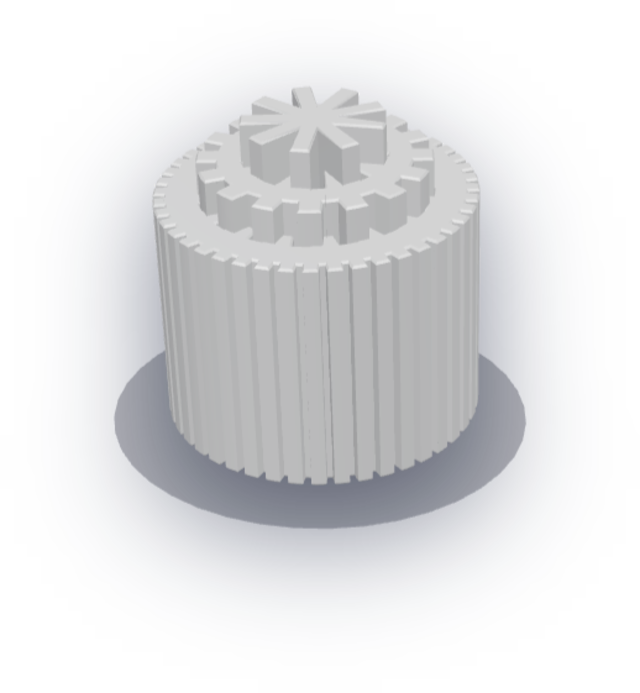
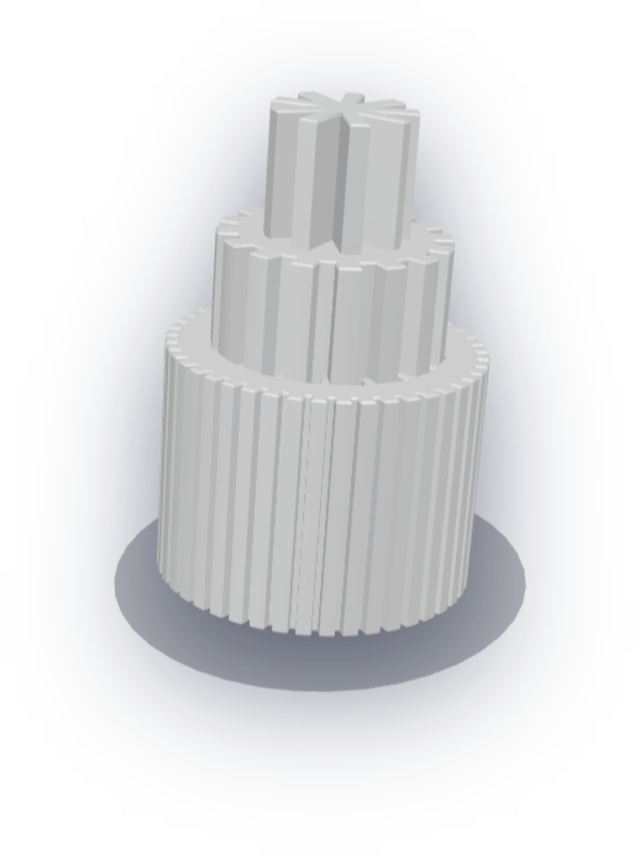
Sample application

Changed region(s): [[0.1875, 0.0909, 0.7812, 0.5152], [0.1562, 0.4848, 0.8438, 0.8182]]

diff --git a/src/styles/global.css b/src/styles/global.css
@@ -117,7 +117,7 @@ a:hover { color: var(--color-ink); }
               transform 100ms var(--ease-out);
 }
 .btn--fill {
-  background-color: var(--color-accent);
+  background-color: var(--color-accent-2);
   color: #ffffff;
   /* hover inverts: background and font colours swap (white sweeps in) */
   background-image: linear-gradient(#ffffff, #ffffff);
@@ -135,9 +135,9 @@ a:hover { color: var(--color-ink); }
   top: 0;
   bottom: 0;
   width: 4px;
-  background: var(--color-accent-2); /* logo purple edge, the one purple note on light pages */
+  background: var(--color-accent-bright); /* steel blue edge against the purple fill */
 }
-.btn--fill:hover { background-size: 100% 100%; color: var(--color-accent); transform: translateY(-1.5px); }
+.btn--fill:hover { background-size: 100% 100%; color: var(--color-accent-2); transform: translateY(-1.5px); }
 .btn--fill:active { transform: translateY(0); }
 .btn--outline {
   background-color: transparent;

diff --git a/src/styles/tokens.css b/src/styles/tokens.css
@@ -24,7 +24,7 @@
   --color-accent-bright: oklch(65.0% 0.079 238.8);   /* #6096ba Steel Blue - large text, icons, graphics */
   --color-accent-soft: oklch(83.3% 0.067 243.2);     /* #a3cef1 Icy Blue - marks on dark, soft borders */
   --color-accent-deep: oklch(31.9% 0.063 267);      /* #243153 hover shade */
-  --color-accent-2:   oklch(38.9% 0.134 308);        /* #592a7a logo purple - sparing highlights */
+  --color-accent-2:   #552c72;                       /* logo purple (client pick) - buttons, highlights */
   --color-accent-2-deep: oklch(32% 0.150 298);       /* #3f1273 deep violet */
   --color-focus:      oklch(38.9% 0.134 308);        /* purple ring, echoes the logo spark */
   /* On the deep band (#172043 surfaces) */
